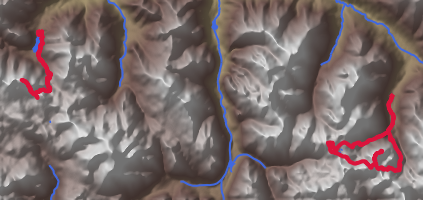
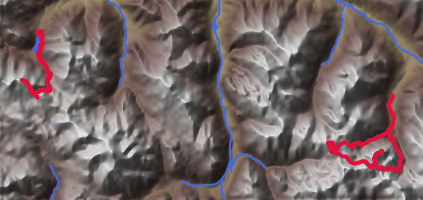
use earthpy hillshade

diff --git a/hikingplots/plot/topography.py b/hikingplots/plot/topography.py
@@ -4,6 +4,7 @@ import re
 from dataclasses import dataclass
 
 import diskcache
+import earthpy.spatial as es
 import geopandas as gpd
 import lxml.etree
 import matplotlib
@@ -75,47 +76,11 @@ class LandTopography(MapPlottable):
         height_map = height_map.astype(np.float32)
         height_map /= 10  # scale down to reduce exaggerating illumination differences
 
-        x, y = np.gradient(height_map)
-
-        # terrain slope angle measured from horizontal plane, between 0 and pi/2
-        terrain_slope = np.arctan(np.sqrt(x * x + y * y))
-        # terrain normal azimuth angle between 0 and 2*pi, measured clockwise from north
-        terrain_normal_azimuth = (np.pi / 2.0 - np.arctan2(x, -y)) % (2 * np.pi)
-        # terrain normal elevation angle measured from horizontal plane, between 0 and pi/2
-        terrain_normal_elevation = np.pi / 2.0 - terrain_slope
-
-        sun_azimuth = sun_azimuth_degree * np.pi / 180.0
-        sun_elevation = sun_elevation_degree * np.pi / 180.0
-
-        # We have two vectors
-        # - the sun vector (sun_azimuth, sun_elevation)
-        # - the terrain normal vector (terrain_normal_azimuth, terrain_normal_elevation)
-        # We want to compute the the cosine of the angle between these two to apply Lambert’s Cosine Law.
-
-        # Convert sun vector to Cartesian coordinates
-        sun_x = np.cos(sun_elevation) * np.sin(sun_azimuth)
-        sun_y = np.cos(sun_elevation) * np.cos(sun_azimuth)
-        sun_z = np.sin(sun_elevation)
-
-        # Convert terrain normal vector to Cartesian coordinates
-        terrain_normal_x = np.cos(terrain_normal_elevation) * np.sin(
-            terrain_normal_azimuth
+        hillshade = es.hillshade(
+            height_map, azimuth=sun_azimuth_degree, altitude=sun_elevation_degree
         )
-        terrain_normal_y = np.cos(terrain_normal_elevation) * np.cos(
-            terrain_normal_azimuth
-        )
-        terrain_normal_z = np.sin(terrain_normal_elevation)
-
-        # Compute the dot product between sun vector and terrain normal vector
-        lambert_cosine = (
-            sun_x * terrain_normal_x
-            + sun_y * terrain_normal_y
-            + sun_z * terrain_normal_z
-        )
-
-        illumination = np.clip(lambert_cosine, 0, 1)
-        illumination = illumination * 0.5 + 0.5  # turn brightness up a bit
-        return illumination.astype(np.float32)
+        hillshade = hillshade.astype(np.float32) / 255.0
+        return hillshade
 
     def get_scaled_height_map_with_padding(
         self, area: MapSection, plot_definition: PlotDefinition
